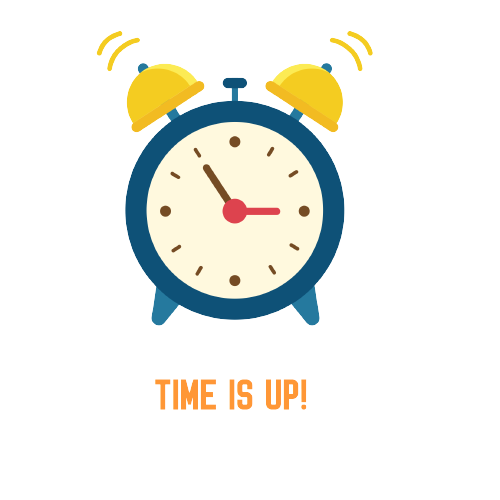
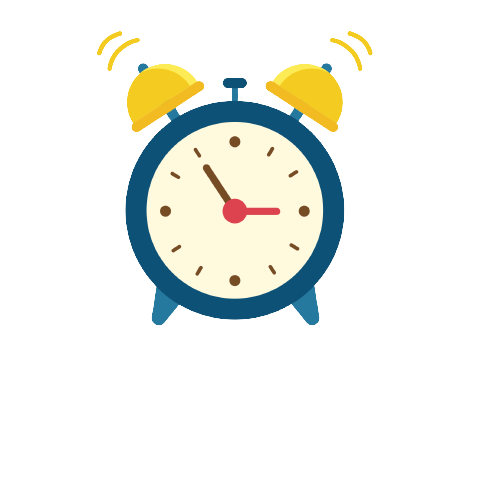
fixed language

Changed region(s): [[0.3, 0.75, 0.63, 0.84]]

diff --git a/main.py b/main.py
@@ -18,6 +18,19 @@ window.exit_button.enabled = False
 stop_thread = False
 time_show = None
 setting_changes = {"texture": "wood_islam", "sound_effect": "on", "language": "en"}
+try:
+    file = open("settings/settings.txt", 'r+')
+    language = (file.readline())[:-1]
+    sound_effect = (file.readline())[:-1]
+    texture = (file.readline())[:-1]
+    file.close()
+except:
+    language = 'en'
+    sound_effect = 'on'
+    texture = 'wood_islam'
+setting_changes["language"] = language
+setting_changes["sound_effect"] = sound_effect
+setting_changes["texture"] = texture
 
 
 def exit_game():
@@ -79,6 +92,7 @@ def give_tip(tip_button):
 
 
 def difficulty(num, d_l):
+    global lang
     for i in range(4):
         d_l[i].enabled = False
         d_l[i].hide()
@@ -87,12 +101,18 @@ def difficulty(num, d_l):
     else:
         d_l[4].enabled = True
         d_l[4].show()
-        t_yes = Button(parent=d_l[4], color=rgb(255, 151, 54), position=(0.29, -0.01), text="Yes")
-        t_yes.text_entity.font = 'fonts/Soulgood.ttf'
+        if lang[0] == "arialbd.ttf":
+            yes = get_display(arabic_reshaper.reshape(lang[6]))
+            no = get_display(arabic_reshaper.reshape(lang[7]))
+        else:
+            yes = lang[6]
+            no = lang[7]
+        t_yes = Button(parent=d_l[4], color=rgb(255, 151, 54), position=(0.29, -0.01), text=yes)
+        t_yes.text_entity.font = f'fonts/{lang[1]}'
         t_yes.fit_to_text()
         t_yes.on_click = Func(game, num, True)
-        t_no = Button(parent=d_l[4], color=rgb(255, 151, 54), position=(0.35, -0.01), text="No")
-        t_no.text_entity.font = 'fonts/Soulgood.ttf'
+        t_no = Button(parent=d_l[4], color=rgb(255, 151, 54), position=(0.35, -0.01), text=no)
+        t_no.text_entity.font = f'fonts/{lang[1]}'
         t_no.fit_to_text()
         t_no.on_click = Func(game, num, False)
 
@@ -112,9 +132,30 @@ def difficulty_show(d_l, main_button):
             d_l[i].show()
 
 
+def save_chabges (settings_changes):
+    file = open("settings/settings.txt","w")
+    file.write(settings_changes["language"]+'\n')
+    file.write(settings_changes["sound_effect"]+'\n')
+    file.write(settings_changes["texture"]+'\n')
+    file.close()
+
 def to_home(a_l):
     for item in a_l:
         destroy(item)
+    global setting_changes
+    try:
+        file = open("settings/settings.txt", 'r+')
+        language = (file.readline())[:-1]
+        sound_effect = (file.readline())[:-1]
+        texture = (file.readline())[:-1]
+        file.close()
+    except:
+        language = 'en'
+        sound_effect = 'on'
+        texture = 'wood_islam'
+    setting_changes["language"] = language
+    setting_changes["sound_effect"] = sound_effect
+    setting_changes["texture"] = texture
     home()
 
 
@@ -166,6 +207,15 @@ def settings_menu():
     settings_list.append(back)
     back.on_click = Func(to_home, settings_list)
 
+    save = Button(color=rgb(255, 151, 54), text="save", position=(0.7, -0.4))
+    save.text_entity.font = 'fonts/Soulgood.ttf'
+    save.fit_to_text()
+    settings_list.append(save)
+    save.on_click = Func(save_chabges, setting_changes)
+
+
+#will do it later
+
 
 def about():
     global home_buttons
@@ -205,7 +255,6 @@ def about():
     about_list.append(back)
     back.on_click = Func(to_home, about_list)
 
-
 def solver(solved):
     global stop_thread, timer_on, back_to_home_button
     for i in range(6):
@@ -224,16 +273,22 @@ def solver(solved):
 
 
 def after_check(d, t=None, ok_b=None):
-    global time_show, stop_thread, timer_on, time_check
+    global time_show, stop_thread, timer_on, time_check, lang
     if d == "timer":
         for button in classes.sudoku_buttons:
             if button != back_to_home_button:
                 destroy(button)
+
         c = Button(icon='images/clock', color=rgb(64, 64, 64), disabled=True, scale=0.6)
-        t = Text(text='Time is up!', color=rgb(255, 151, 54), scale=3, position=(-0.15, -0.3),
-                 font='fonts/Soulgood.ttf')
-        back_to_home_button.on_click = Func(home, 2, t, c)
-    if t is None:
+        if lang[0] == "arialbd.ttf":
+            time_is_up = get_display(arabic_reshaper.reshape(lang[8]))
+        else:
+            time_is_up = lang[8]
+
+        t = Text(text=f'{time_is_up}', color=rgb(255, 151, 54), scale=3, position=(0, -0.12),
+                 font=f'fonts/{lang[1]}')
+        back_to_home_button.on_click = Func(home, 2, [t, c])
+    elif t is None:
         for button in classes.sudoku_buttons:
             if button != back_to_home_button:
                 destroy(button)
@@ -254,21 +309,32 @@ def after_check(d, t=None, ok_b=None):
         file = open('data/points.pmd', 'w')
         file.write(str(xp + xp_timer))
         file.close()
-        t = Text(text=f"Congratulations! +{d ** 2 + xp_timer} XP", color=rgb(255, 151, 54), scale=2,
-                 position=(-0.2, -0.3), font='fonts/Soulgood.ttf')
+        if lang[0] == "arialbd.ttf":
+            Congratulations = get_display(arabic_reshaper.reshape(lang[9]))
+        else:
+            Congratulations = lang[9]
+        t = Text(text=f"{Congratulations} +{d ** 2 + xp_timer} XP", color=rgb(255, 151, 54), scale=2,
+                 position=(-0.2, -0.3), font=f'fonts/{lang[1]}')
         c = Button(icon='images/cup', color=rgb(64, 64, 64), disabled=True, scale=0.6)
-        back_to_home_button.on_click = Func(home, 2, t, c)
+        back_to_home_button.on_click = Func(home, 2, [t, c])
     else:
         destroy(t)
         destroy(ok_b)
 
 
 def output(d):
+    global lang
     if not classes.output_nums():
-        t = Text(text="You didn't solve the 3D Sudoku correctly", color=color.red, scale=1.25, position=(-0.5, -0.4),
-                 font='fonts/Soulgood.ttf')
-        ok_button = Button(text="OK", color=color.red, position=(0.15, -0.42))
-        ok_button.text_entity.font = 'fonts/Soulgood.ttf'
+        if lang[0] == "arialbd.ttf":
+            solve = get_display(arabic_reshaper.reshape(lang[10]))
+            ok = get_display(arabic_reshaper.reshape(lang[11]))
+        else:
+            solve = lang[10]
+            ok = lang[11]
+        t = Text(text=solve, color=color.red, scale=1.25, position=(-0.5, -0.4),
+                 font=f'fonts/{lang[1]}')
+        ok_button = Button(text=ok, color=color.red, position=(0.15, -0.42))
+        ok_button.text_entity.font = f'fonts/{lang[1]}'
         ok_button.fit_to_text()
         ok_button.on_click = Func(after_check, d, t, ok_button)
         classes.sudoku_buttons.append(t)
@@ -277,19 +343,36 @@ def output(d):
         after_check(d)
 
 
-def home(scene_code=0, t=None, c=None):
-    global home_buttons, stop_thread, setting_changes
+def home(scene_code=0, destroy_list = []):
+    global home_buttons, stop_thread, setting_changes, lang
     stop_thread = True
     home_buttons = []
-    lang_file = open(f"languages/{setting_changes['language']}.txt")
     lang = setting_changes['language']
     globals()[setting_changes['language']] = []
-    en = ['calibrib.ttf', 'Soulgood.ttf', 'Settings', 'About Us', 'Tips', 'Start a New Game']
+    en = ['calibrib.ttf', 'Soulgood.ttf', 'Settings', 'About Us', 'Tips', 'Start a New Game', 'yes', 'no', 'Time is up!'
+                                                 , 'Congratulations!', 'You didn`t solve the 3D Sudoku correctly', 'OK'
+                                                 'easy', 'medium', 'hard', 'expert', 'time limit?', 'check', "Solve",
+                                                                            "Show Changeable Parts", "Back to Home"]
+
     fr = ['calibrib.ttf ', 'Soulgood.ttf', "Réglages", "À propos de nous", 'Des astuces', 'Commencer une nouvelle '
-                                                                                          'partie']
-    de = ['calibrib.ttf ', 'Soulgood.ttf', 'Einstellungen', 'Über uns', 'Tipps', 'Starten Sie ein neues Spiel']
-    fa = ["arialbd.ttf", "BYekan.ttf", "تنظیمات", "درباره ما", "نکات", "یک بازی جدید را شروع کنید"]
-    ar = ["arialbd.ttf", "BYekan.ttf", "إعدادات", "معلومات عنا", "نصائح", "ابدأ لعبة جديدة"]
+    'partie', 'oui', 'non', 'le temps est écoulé!', 'Toutes nos félicitations!', 'Vous n`avez pas correctement'
+                                         ' résolu le Sudoku 3D', 'D`ACCORD', 'facile', 'moyen', 'difficile', 'expert',
+                    'limite de temps?', 'Chèque', "Résoudre", "Afficher les pièces modifiables", "Retour à l'accueil"]
+
+    de = ['calibrib.ttf ', 'Soulgood.ttf', 'Einstellungen', 'Über uns', 'Tipps', 'Starten Sie ein neues Spiel', 'ja',
+    'nein', 'die Zeit ist um!', 'Herzliche Glückwünsche!','Sie haben das 3D-Sudoku nicht richtig gelöst', 'OK'
+                                                                            , 'einfach', 'mittel', 'schwer', 'Experte',
+                             'Zeitlimit?', 'überprüfen', "Lösen", "Änderbare Teile anzeigen", "Zurück zur Startseite"]
+
+    fa = ["arialbd.ttf", "BYekan.ttf", "تنظیمات", "درباره ما", "نکات", "یک بازی جدید را شروع کنید", "آره", "نه",
+                                                "وقت تمومه!","تبریک!", "شما سودوکو سه بعدی را درست حل نکردید", "باشه"
+                                                                                    ,"آسان", "متوسط", "سخت", "متخصص",
+                                            "محدودیت زمانی؟", "بررسی", "حل", "نمایش قطعات قابل تغییر", "بازگشت به خانه"]
+
+    ar = ["arialbd.ttf", "BYekan.ttf", "إعدادات", "معلومات عنا", "نصائح", "ابدأ لعبة جديدة", "نعم", "لا", "انتهى الوقت!"
+                                                 , "تهانينا!", "لم تقم بحل لعبة سودوكو ثلاثية الأبعاد بشكل صحيح", "نعم",
+                                                                                "سهل" , "متوسط" , "صعب" , "خبير",
+                        "المهلة؟", "التحقق من", "حل" , "إظهار الأجزاء القابلة للتغيير" , "الرجوع إلى الصفحة الرئيسية"]
     lang = locals()[lang]
     if scene_code == 1:
         for button in classes.sudoku_buttons:
@@ -297,8 +380,8 @@ def home(scene_code=0, t=None, c=None):
         classes.sudoku_buttons = []
         classes.little_cubes = []
     if scene_code == 2:
-        destroy(t)
-        destroy(c)
+        for i in destroy_list:
+            destroy(i)
         for button in classes.sudoku_buttons:
             destroy(button)
         classes.sudoku_buttons = []
@@ -358,39 +441,59 @@ def home(scene_code=0, t=None, c=None):
     home_buttons.append(xp_show)
     home_buttons.append(['0'])
     del home_buttons[-1][0]
-    easy = Button(text="Easy", position=(-0.122, -0.33), color=rgb(255, 151, 54), enabled=False)
+    if lang[0] == "arialbd.ttf":
+        difficulty_t = get_display(arabic_reshaper.reshape(lang[12]))
+    else:
+        difficulty_t = lang[12]
+    easy = Button(text=difficulty_t, position=(-0.122, -0.33), color=rgb(255, 151, 54), enabled=False)
     Text(text="+16 xp", parent=easy, scale=(17, 18), color=rgb(54, 158, 255), position=(-0.58, -0.7),
          font='fonts/Soulgood.ttf')
-    easy.text_entity.font = 'fonts/Soulgood.ttf'
+    easy.text_entity.font = f'fonts/{lang[1]}'
     easy.fit_to_text()
     easy.hide()
     easy.on_click = Func(difficulty, 4, home_buttons[-1])
     home_buttons[-1].append(easy)
-    medium = Button(text="Medium", position=(-0.046, -0.33), color=rgb(255, 151, 54), enabled=False)
+    if lang[0] == "arialbd.ttf":
+        difficulty_t = get_display(arabic_reshaper.reshape(lang[13]))
+    else:
+        difficulty_t = lang[13]
+    medium = Button(text=difficulty_t, position=(-0.046, -0.33), color=rgb(255, 151, 54), enabled=False)
     Text(text="+36 xp", parent=medium, scale=(15, 18), color=rgb(54, 158, 255), position=(-0.5, -0.7),
          font='fonts/Soulgood.ttf')
-    medium.text_entity.font = 'fonts/Soulgood.ttf'
+    medium.text_entity.font = f'fonts/{lang[1]}'
     medium.hide()
     medium.fit_to_text()
     medium.on_click = Func(difficulty, 6, home_buttons[-1])
     home_buttons[-1].append(medium)
-    hard = Button(text="Hard", position=(0.031, -0.33), color=rgb(255, 151, 54), enabled=False)
+    if lang[0] == "arialbd.ttf":
+        difficulty_t = get_display(arabic_reshaper.reshape(lang[14]))
+    else:
+        difficulty_t = lang[14]
+    hard = Button(text=difficulty_t, position=(0.031, -0.33), color=rgb(255, 151, 54), enabled=False)
     Text(text="+64 xp", parent=hard, scale=18, color=rgb(54, 158, 255), position=(-0.58, -0.7),
          font='fonts/Soulgood.ttf')
-    hard.text_entity.font = 'fonts/Soulgood.ttf'
+    hard.text_entity.font = f'fonts/{lang[1]}'
     home_buttons[-1].append(hard)
     hard.hide()
     hard.fit_to_text()
     hard.on_click = Func(difficulty, 8, home_buttons[-1])
-    expert = Button(text="Expert", position=(0.109, -0.33), color=rgb(255, 151, 54), enabled=False)
+    if lang[0] == "arialbd.ttf":
+        difficulty_t = get_display(arabic_reshaper.reshape(lang[15]))
+    else:
+        difficulty_t = lang[15]
+    expert = Button(text=difficulty_t, position=(0.109, -0.33), color=rgb(255, 151, 54), enabled=False)
     Text(text="+512 xp", parent=expert, scale=(14, 18), color=rgb(54, 158, 255), position=(-0.5, -0.7),
          font='fonts/Soulgood.ttf')
-    expert.text_entity.font = 'fonts/Soulgood.ttf'
+    expert.text_entity.font = f'fonts/{lang[1]}'
     home_buttons[-1].append(expert)
     expert.hide()
     expert.fit_to_text()
     expert.on_click = Func(difficulty, -1, home_buttons[-1])
-    time_limit = Text(text="Time limit? (+32 xp)", color=rgb(54, 158, 255), position=(-0.2, -0.33))
+    if lang[0] == "arialbd.ttf":
+        limit = get_display(arabic_reshaper.reshape(lang[16]))
+    else:
+        limit = lang[16]
+    time_limit = Text(text=f"{limit} (+32 xp)", color=rgb(54, 158, 255), position=(-0.2, -0.33))
     time_limit.hide()
     home_buttons[-1].append(time_limit)
     close_d = Button(scale=(0.076, 0.067), parent=new_game, position=(0.45, -0.53), color=rgb(255, 151, 54),
@@ -413,24 +516,40 @@ def game(d, t=False):
     sudoku_parent.rotation = (45, 0, -45)
     global indexes
     numbers, indexes, generated_sudoku, correct_answers = generator.generate_and_remove(d)
-    check_button = Button(text="Check", color=rgb(54, 158, 255), position=(-0.74, -0.45))
-    check_button.text_entity.font = 'fonts/Soulgood.ttf'
+    if lang[0] == "arialbd.ttf":
+        check = get_display(arabic_reshaper.reshape(lang[17]))
+    else:
+        check = lang[17]
+    check_button = Button(text=check, color=rgb(54, 158, 255), position=(-0.74, -0.45))
+    check_button.text_entity.font = f'fonts/{lang[1]}'
     check_button.fit_to_text()
     classes.Cube(sudoku_parent, numbers, generated_sudoku)
     check_button.on_click = Func(output, d)
     classes.sudoku_buttons.append(check_button)
-    solve = Button(text="Solve", color=rgb(54, 158, 255), position=(-0.82, -0.45))
-    solve.text_entity.font = 'fonts/Soulgood.ttf'
+    if lang[0] == "arialbd.ttf":
+        solve = get_display(arabic_reshaper.reshape(lang[18]))
+    else:
+        solve = lang[18]
+    solve = Button(text=solve, color=rgb(54, 158, 255), position=(-0.82, -0.45))
+    solve.text_entity.font = f'fonts/{lang[1]}'
     solve.fit_to_text()
     solve.on_click = Func(solver, correct_answers)
     classes.sudoku_buttons.append(solve)
-    changeable = Button(text="Show Changeable Parts", color=rgb(54, 158, 255), position=(-0.55, -0.45))
-    changeable.text_entity.font = 'fonts/Soulgood.ttf'
+    if lang[0] == "arialbd.ttf":
+        scp = get_display(arabic_reshaper.reshape(lang[19]))
+    else:
+        scp = lang[19]
+    changeable = Button(text=scp, color=rgb(54, 158, 255), position=(-0.55, -0.45))
+    changeable.text_entity.font = f'fonts/{lang[1]}'
     changeable.fit_to_text()
     classes.sudoku_buttons.append(changeable)
     changeable.on_click = Func(classes.show_changeable, generated_sudoku, changeable)
-    back_to_home_button = Button(color=rgb(255, 151, 54), text="Back to Home", position=(-0.7, 0.4))
-    back_to_home_button.text_entity.font = 'fonts/Soulgood.ttf'
+    if lang[0] == "arialbd.ttf":
+        bth = get_display(arabic_reshaper.reshape(lang[20]))
+    else:
+        bth = lang[20]
+    back_to_home_button = Button(color=rgb(255, 151, 54), text=bth, position=(-0.7, 0.4))
+    back_to_home_button.text_entity.font = f'fonts/{lang[1]}'
     back_to_home_button.fit_to_text()
     classes.sudoku_buttons.append(back_to_home_button)
     back_to_home_button.on_click = Func(home, 1)
